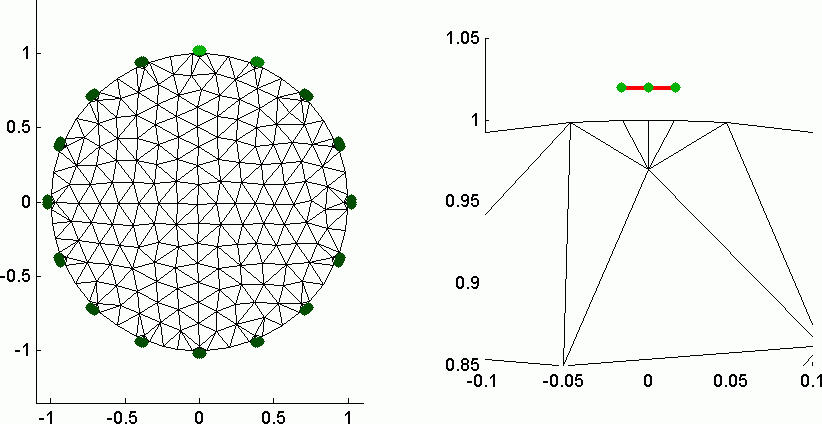
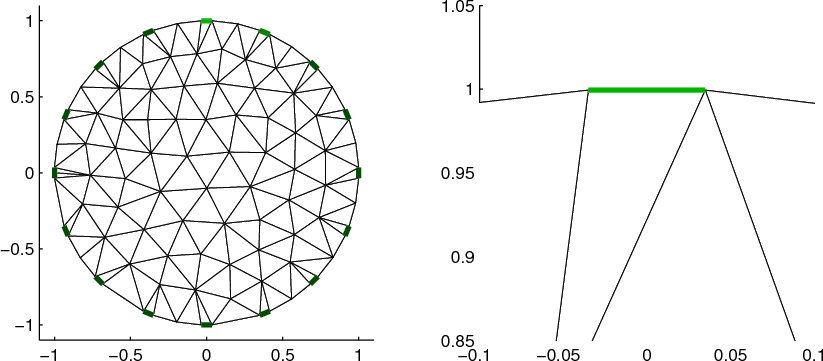
crop figures nicely
git-svn-id: svn+ssh://svn.code.sf.net/p/eidors3d/code/trunk@2767 82006732-fb7e-4a22-9f28-86a212cce563

diff --git a/htdocs/tutorial/distmesh/simple_2d_model01.m b/htdocs/tutorial/distmesh/simple_2d_model01.m
@@ -4,11 +4,11 @@
 imdm=mk_common_model('a2d1c',16);
 subplot(121)
 show_fem(imdm.fwd_model);
-axis on; axis equal
+axis on; axis equal; axis([-1.1 1.1 -1.1 1.1]);
 
 % close in view
 subplot(122)
 show_fem(imdm.fwd_model);
 axis equal; axis([-.1 .1 .85 1.05]);
 
-print -dpng -r125 simple_2d_model01a.png
+print_convert simple_2d_model01a.png '-density 125'

diff --git a/htdocs/tutorial/distmesh/simple_2d_model02.m b/htdocs/tutorial/distmesh/simple_2d_model02.m
@@ -4,11 +4,11 @@
 imdm=mk_common_model('d2d4c',16);
 subplot(121)
 show_fem(imdm.fwd_model);
-axis on; axis equal
+axis on; axis equal; axis([-1.1 1.1 -1.1 1.1]);
 
 % close in view
 subplot(122)
 show_fem(imdm.fwd_model);
 axis equal; axis([-.1 .1 .85 1.05]);
 
-print -dpng -r125 simple_2d_model02a.png
+print_convert simple_2d_model02a.png '-density 125'
